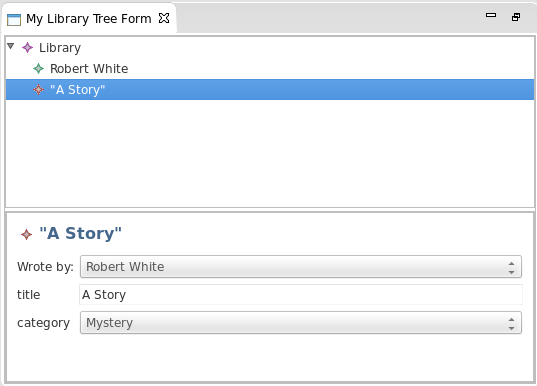
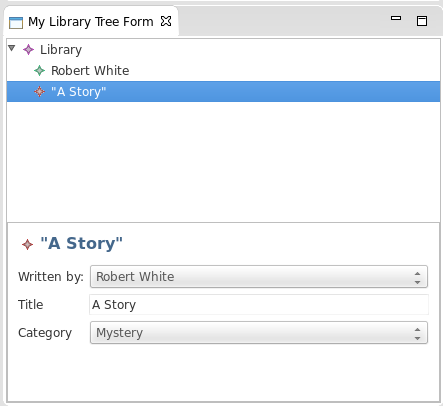
476101: Update documentation for Form and Dialog FeatureCaptionProvider
https://bugs.eclipse.org/bugs/show_bug.cgi?id=476101

Changed region(s): [[0.0, 0.0, 0.9977, 1.0], [0.9977, 0.9948, 1.0, 1.0]]

diff --git a/examples/org.eclipse.emf.parsley.examples.firstexample/emfparsley-gen/org/eclipse/emf/parsley/examples/firstexample/ui/provider/FeatureCaptionProviderGen.java b/examples/org.eclipse.emf.parsley.examples.firstexample/emfparsley-gen/org/eclipse/emf/parsley/examples/firstexample/ui/provider/FeatureCaptionProviderGen.java
@@ -6,7 +6,7 @@ import org.eclipse.emf.parsley.ui.provider.FeatureCaptionProvider;
 @SuppressWarnings("all")
 public class FeatureCaptionProviderGen extends FeatureCaptionProvider {
   public String text_Book_author(final EStructuralFeature it) {
-    return "Wrote by:";
+    return "Written by:";
   }
   
   public String text_Writer_name(final EStructuralFeature it) {
